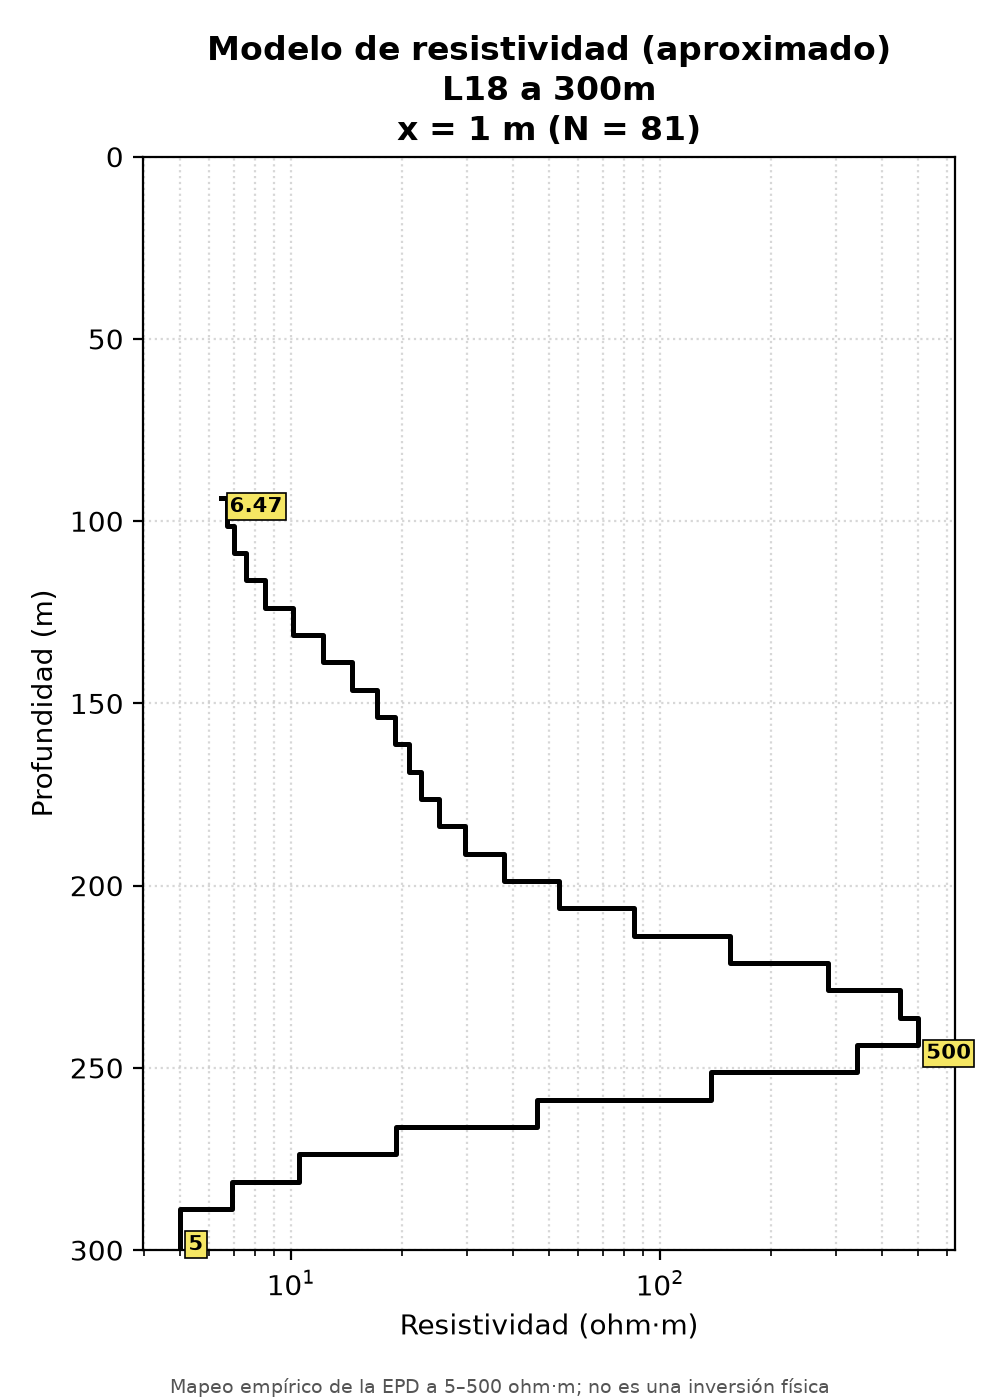
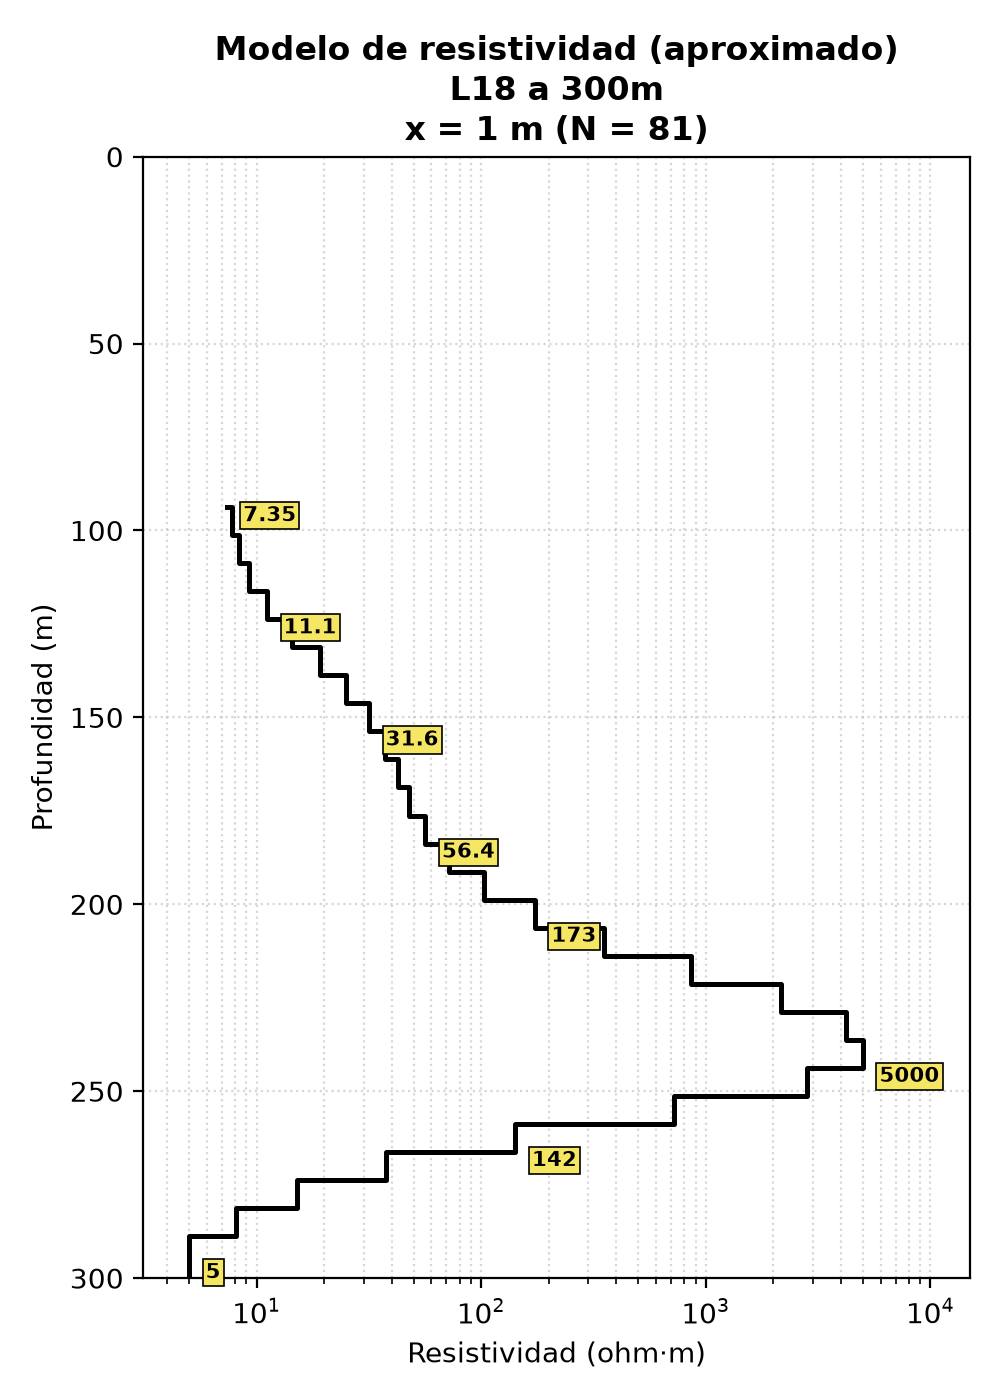
Magenta highlight boxes, resistivity labels along the curve, and boxes on the pseudo-section (Fig. 13)
Claude-Session: https://claude.ai/code/session_01Q2nGDhSbUmK7afAcFQ8b9A

diff --git a/tefsm_figuras.py b/tefsm_figuras.py
@@ -219,6 +219,40 @@ def figura_modulo(args):
 #   K_i = log10(dV_i / dV_min)        (ec. 13)
 #   h_s = c * 503 * sqrt(rho / f)     (ec. 12)
 # ----------------------------------------------------------------------------
+def recuadros_pseudo(args, ax):
+    """Recuadros fucsia sobre la pseudo-seccion (solo datos del equipo, profundidad lineal):
+      - trazo continuo grueso: tramos de menor resistividad de la estacion analizada (los mismos
+        recuadros del modelo de resistividad);
+      - trazo discontinuo: zonas de EPD baja respecto a la mediana lateral a cada profundidad."""
+    from scipy import ndimage
+    n, x, h, V = matriz_equipo(args)
+    paso = h[1] - h[0]
+    # zonas de EPD baja (anomalias laterales)
+    valido = V > args.umbral
+    with np.errstate(divide="ignore", invalid="ignore"):
+        L = np.where(valido, np.log10(np.where(valido, V, 1.0)), np.nan)
+    import warnings
+    with warnings.catch_warnings():
+        warnings.simplefilter("ignore", RuntimeWarning)
+        A = L - np.nanmedian(L, axis=1, keepdims=True)
+    lab, nl = ndimage.label(np.nan_to_num(A, nan=0.0) < -args.umbral_anomalia)
+    for k in range(1, nl + 1):
+        ii, jj = np.where(lab == k)
+        if len(ii) < args.min_celdas:
+            continue
+        x0, x1 = x[jj.min()] - args.dx / 2, x[jj.max()] + args.dx / 2
+        h0, h1 = max(h[ii.min()] - paso / 2, 0.0), h[ii.max()] + paso / 2
+        ax.add_patch(plt.Rectangle((x0, -h1), x1 - x0, h1 - h0, fill=False, ec=COLOR_RECUADRO, ls="--", lw=1.8, zorder=5))
+    # tramos de menor resistividad de la estacion
+    j = elegir_estacion(args, n, x, V)
+    hv, vv, m, _, _, _ = ajuste_estacion(args, V, h, j)
+    _, bordes, tramos = modelo_resistividad(args, h, hv, m)
+    for i0, i1 in tramos:
+        ax.add_patch(plt.Rectangle((x[j] - args.dx / 2, -bordes[i1 + 1]), args.dx, bordes[i1 + 1] - bordes[i0],
+                                   fill=False, ec=COLOR_RECUADRO, lw=3, zorder=6))
+    ax.axvline(x[j], color="k", lw=1, alpha=0.6, zorder=4)
+
+
 def figura_pseudo(args):
     cab = pd.read_csv(args.archivo, nrows=0, sep=None, engine="python") \
         if not args.archivo.lower().endswith((".xlsx", ".xls")) else pd.read_excel(args.archivo, nrows=0)
@@ -280,6 +314,8 @@ def figura_pseudo(args):
     ax.set_ylim(-hmax, 0)
     fig.colorbar(cf, ax=ax, orientation="horizontal", pad=0.04, shrink=0.8,
                  label=r"$\log_{10}(\Delta V/\Delta V_{min})$")
+    if "canal" in df.columns and args.escala_h == "lineal":
+        recuadros_pseudo(args, ax)
     ax.set_title(f"Pseudo-sección normalizada\n{etiqueta_csv(args.archivo)}", fontweight="bold", pad=42)
     guardar(fig, args)
 
@@ -426,28 +462,58 @@ def figura_horizontal(args):
 #   * Estacion por defecto: la de mayor anomalia de EPD BAJA respecto a la mediana lateral a cada
 #     profundidad (sin contar los bordes del perfil).
 # ----------------------------------------------------------------------------
-def figura_inversion(args):
+COLOR_RECUADRO = "#d81b9a"     # fucsia
+
+
+def elegir_estacion(args, n, x, V):
+    """Indice del punto a analizar: --x, --punto o, por defecto, el de mayor anomalia baja."""
+    if getattr(args, "x", None) is not None:
+        return int(np.argmin(np.abs(x - args.x)))
+    if getattr(args, "punto", None) is not None:
+        return int(np.argmin(np.abs(n - float(args.punto))))
+    return estacion_auto(V, args.umbral, args.umbral_anomalia)
+
+
+def ajuste_estacion(args, V, h, j):
+    """Lecturas validas de la estacion j y su ajuste regularizado (Tikhonov, 2a derivada)."""
     from scipy import ndimage
-
-    n, x, h, V = matriz_equipo(args)
-    valido = V > args.umbral
-    if args.x is not None:
-        j = int(np.argmin(np.abs(x - args.x)))
-    elif args.punto is not None:
-        j = int(np.argmin(np.abs(n - args.punto)))
-    else:
-        j = estacion_auto(V, args.umbral, args.umbral_anomalia)
-    xs = x[j]
-
-    obs = valido[:, j]
+    obs = V[:, j] > args.umbral
     hv, vv = h[obs], V[obs, j]
     if obs.sum() < 4:
-        sys.exit(f"La estacion N = {n[j]:g} tiene menos de 4 lecturas validas (> {args.umbral:g} mV)")
+        sys.exit(f"La estacion tiene menos de 4 lecturas validas (> {args.umbral:g} mV)")
     D = np.diff(np.eye(len(vv)), 2, axis=0)
     sc = vv.max()
-    m = np.linalg.solve(np.eye(len(vv)) + args.lam * D.T @ D, vv / sc) * sc    # ajuste regularizado
+    m = np.linalg.solve(np.eye(len(vv)) + args.lam * D.T @ D, vv / sc) * sc
     suav = ndimage.gaussian_filter1d(vv, args.factor_suavizado, mode="nearest")
     rms = float(np.sqrt(np.mean((m - vv) ** 2)))
+    return hv, vv, m, suav, rms, sc
+
+
+def modelo_resistividad(args, h, hv, m):
+    """Resistividad aproximada (mapeo log-lineal de la EPD ajustada a [rho_min, rho_max]), limites de
+    cada capa y tramos donde la resistividad BAJA respecto a la capa anterior (indices i0..i1)."""
+    from scipy.signal import find_peaks
+    t = np.clip((m - m.min()) / max(m.max() - m.min(), 1e-12), 0, 1)
+    rho = args.rho_min * (args.rho_max / args.rho_min) ** t
+    paso = h[1] - h[0]
+    bordes = np.concatenate([hv - paso / 2, [hv[-1] + paso / 2]])
+    lr = np.log10(rho)
+    mins, _ = find_peaks(-lr, prominence=args.prominencia)
+    maxs, _ = find_peaks(lr)
+    tramos = []
+    for k in mins:
+        previos = maxs[maxs < k]
+        i0 = int(previos[-1]) if len(previos) else max(0, k - 3)     # maximo local anterior
+        i1 = min(len(rho) - 1, k + 3)                                 # unos canales despues del minimo
+        tramos.append((i0, i1))
+    return rho, bordes, tramos
+
+
+def figura_inversion(args):
+    n, x, h, V = matriz_equipo(args)
+    j = elegir_estacion(args, n, x, V)
+    xs = x[j]
+    hv, vv, m, suav, rms, sc = ajuste_estacion(args, V, h, j)
 
     base = os.path.splitext(os.path.basename(args.archivo))[0]
     os.makedirs(args.salida, exist_ok=True)
@@ -469,26 +535,38 @@ def figura_inversion(args):
     terminar(fig, ruta, args, f"(estacion x = {xs:g} m, N = {n[j]:g})")
 
     # --- Modelo de resistividad (aproximado)
-    t = np.clip((m - m.min()) / max(m.max() - m.min(), 1e-12), 0, 1)
-    rho = args.rho_min * (args.rho_max / args.rho_min) ** t
-    paso = h[1] - h[0]
-    bordes = np.concatenate([hv - paso / 2, [hv[-1] + paso / 2]])
+    rho, bordes, tramos = modelo_resistividad(args, h, hv, m)
     fig, ax = plt.subplots(figsize=(5, 7))
     ax.step(np.concatenate([rho, rho[-1:]]), bordes, where="post", color="k", lw=1.8)
-    ext = [0] + [i for i in range(1, len(rho) - 1) if (rho[i] - rho[i - 1]) * (rho[i + 1] - rho[i]) < 0] + [len(rho) - 1]
-    for i in sorted(set(ext)):
-        ax.annotate(f"{rho[i]:.3g}", (rho[i], hv[i]), fontsize=7.5, fontweight="bold",
-                    bbox=dict(boxstyle="square,pad=0.15", fc="#f5e663", ec="k", lw=0.6),
-                    xytext=(3, 0), textcoords="offset points")
+    # Recuadros fucsia: tramos donde la resistividad BAJA respecto a la capa anterior
+    # (caida de al menos --prominencia en log10, p. ej. 0.06 = 15 %)
+    for i0, i1 in tramos:
+        r0, r1 = rho[i0:i1 + 1].min(), rho[i0:i1 + 1].max()
+        ax.add_patch(plt.Rectangle((r0 / 1.15, bordes[i0]), r1 * 1.15 - r0 / 1.15, bordes[i1 + 1] - bordes[i0],
+                                   fill=False, ec=COLOR_RECUADRO, lw=3, zorder=3))
+
+    # Etiquetas de resistividad repartidas por toda la curva: extremos del tramo, maximos y minimos
+    # locales y puntos a profundidades regulares; se descartan las que quedarian encimadas.
+    ext = [i for i in range(1, len(rho) - 1) if (rho[i] - rho[i - 1]) * (rho[i + 1] - rho[i]) < 0]
+    regulares = list(np.unique(np.round(np.linspace(0, len(rho) - 1, max(args.etiquetas, 2))).astype(int)))
+    prioridad = [0, len(rho) - 1] + ext + regulares
+    sep = args.prof / 22                                       # separacion vertical minima entre etiquetas
+    elegidas = []
+    for i in prioridad:
+        if all(abs(hv[i] - hv[q]) >= sep for q in elegidas) and len(elegidas) < max(args.etiquetas, 2) + len(ext) + 2:
+            elegidas.append(i)
+    for i in sorted(elegidas):
+        ax.annotate(f"{rho[i]:.0f}" if rho[i] >= 100 else f"{rho[i]:.3g}", (rho[i], hv[i]), fontsize=7.5,
+                    fontweight="bold", bbox=dict(boxstyle="square,pad=0.15", fc="#f5e663", ec="k", lw=0.6),
+                    xytext=(6, 0), textcoords="offset points", zorder=4)
     ax.set_xscale("log")
+    ax.set_xlim(args.rho_min / 1.6, args.rho_max * 3)           # espacio a la derecha para las etiquetas
     ax.set_ylim(args.prof, 0)
     ax.set_xlabel("Resistividad (ohm·m)")
     ax.set_ylabel("Profundidad (m)")
     ax.set_title(f"Modelo de resistividad (aproximado)\n{etiqueta_csv(args.archivo)}\nx = {xs:g} m (N = {n[j]:g})", fontweight="bold")
     ax.grid(ls=":", alpha=0.5, which="both")
-    fig.text(0.5, 0.005, f"Mapeo empírico de la EPD a {args.rho_min:g}–{args.rho_max:g} ohm·m; no es una inversión física",
-             ha="center", fontsize=7, color="#555")
-    fig.tight_layout(rect=(0, 0.02, 1, 1))
+    fig.tight_layout()
     ruta = os.path.join(args.salida, f"Modelo_Resistividad_{base}.png")
     terminar(fig, ruta, args)
 
@@ -551,6 +629,16 @@ def main():
     b.add_argument("--umbral", type=float, default=0.1,
                    help="descarta lecturas <= umbral (mV) como ruido/canal muerto (def. 0.1); "
                         "evita que dV_min sea ~0 en la ec. 13")
+    b.add_argument("--punto", type=float, default=None, help="N de la estacion marcada (def.: la de mayor anomalia baja)")
+    b.add_argument("--x", type=float, default=None, help="posicion x (m) de la estacion marcada")
+    b.add_argument("--umbral-anomalia", dest="umbral_anomalia", type=float, default=0.15,
+                   help="caida (log10) bajo la mediana lateral para marcar zonas de EPD baja (def. 0.15 = -30%%)")
+    b.add_argument("--min-celdas", dest="min_celdas", type=int, default=4, help="celdas minimas de un recuadro discontinuo (def. 4)")
+    b.add_argument("--lam", type=float, default=3.0, help="regularizacion del ajuste de la estacion (def. 3)")
+    b.add_argument("--factor-suavizado", dest="factor_suavizado", type=float, default=3.0, help=argparse.SUPPRESS)
+    b.add_argument("--rho-min", dest="rho_min", type=float, default=5.0, help="resistividad asignada a la EPD minima (ohm.m)")
+    b.add_argument("--rho-max", dest="rho_max", type=float, default=5000.0, help="resistividad asignada a la EPD maxima (ohm.m)")
+    b.add_argument("--prominencia", type=float, default=0.06, help="caida minima (log10) para marcar un tramo de menor resistividad")
     comun(b)
     b.set_defaults(fn=figura_pseudo)
 
@@ -588,8 +676,11 @@ def main():
     rs.add_argument("--x", type=float, default=None, help="posicion x (m) de la estacion (alternativa a --punto)")
     rs.add_argument("--lam", type=float, default=3.0, help="regularizacion del ajuste (def. 3)")
     rs.add_argument("--factor-suavizado", dest="factor_suavizado", type=float, default=3.0, help="sigma del suavizado (canales)")
-    rs.add_argument("--rho-min", dest="rho_min", type=float, default=5.0, help="resistividad asignada a la EPD minima (ohm.m)")
-    rs.add_argument("--rho-max", dest="rho_max", type=float, default=500.0, help="resistividad asignada a la EPD maxima (ohm.m)")
+    rs.add_argument("--etiquetas", type=int, default=8, help="numero de etiquetas de resistividad repartidas por la curva (def. 8)")
+    rs.add_argument("--prominencia", type=float, default=0.06,
+                    help="caida minima (log10) para marcar con un recuadro un tramo de menor resistividad (def. 0.06 = 15%%)")
+    rs.add_argument("--rho-min", dest="rho_min", type=float, default=5.0, help="resistividad asignada a la EPD minima (ohm.m; def. 5, arcillas lacustres)")
+    rs.add_argument("--rho-max", dest="rho_max", type=float, default=5000.0, help="resistividad asignada a la EPD maxima (ohm.m; def. 5000, rango de Guatemala)")
     rs.set_defaults(fn=figura_inversion)
 
     def completar(a):
@@ -613,16 +704,22 @@ def main():
         if a.mostrar:
             base += ["--mostrar"]
         for c in ("pseudo", "vertical", "horizontal", "inversion"):
-            extra = ["--punto", str(a.punto)] if (a.punto is not None and c in ("vertical", "inversion")) else []
-            if c != "pseudo":                # pseudo no usa la seleccion de estacion
-                extra += ["--umbral-anomalia", str(a.umbral_anomalia)]
+            extra = ["--punto", str(a.punto)] if (a.punto is not None and c in ("pseudo", "vertical", "inversion")) else []
+            extra += ["--umbral-anomalia", str(a.umbral_anomalia)]
+            if c in ("pseudo", "inversion"):
+                extra += ["--lam", str(a.lam), "--rho-min", str(a.rho_min), "--rho-max", str(a.rho_max),
+                          "--prominencia", str(a.prominencia)]
             sa = p.parse_args([c] + base + extra)
             completar(sa)
             sa.fn(sa)
 
     t = sub.add_parser("todas", help="todas las figuras de un archivo del equipo, en su carpeta (figuras/L89_150m)")
     comun_eq(t)
-    t.add_argument("--punto", type=float, default=None, help="N de la estacion para vertical e inversion (def.: la de mayor anomalia baja)")
+    t.add_argument("--punto", type=float, default=None, help="N de la estacion para pseudo, vertical e inversion (def.: la de mayor anomalia baja)")
+    t.add_argument("--lam", type=float, default=3.0, help="regularizacion del ajuste de la estacion (def. 3)")
+    t.add_argument("--rho-min", dest="rho_min", type=float, default=5.0, help="resistividad asignada a la EPD minima (ohm.m)")
+    t.add_argument("--rho-max", dest="rho_max", type=float, default=5000.0, help="resistividad asignada a la EPD maxima (ohm.m)")
+    t.add_argument("--prominencia", type=float, default=0.06, help="caida minima (log10) para marcar un tramo de menor resistividad")
     t.set_defaults(fn=figura_todas)
 
     args = p.parse_args()

diff --git a/README.md b/README.md
@@ -55,4 +55,24 @@ Opciones útiles (`-h` en cada comando muestra todas):
 
 Gomo y Ngobe indican que los valores del equipo no se pueden convertir en resistividad. Por eso `Modelo_Resistividad_*.png` es una **aproximación empírica y cualitativa**, no una inversión física:
 - *Calculado*: ajuste regularizado (Tikhonov, 2.ª derivada) de la EPD observada contra la profundidad (`--lam`); *Suavizado*: filtro gaussiano (`--factor-suavizado`). RMS = diferencia entre el ajuste y las lecturas.
-- *Resistividad*: mapeo log-lineal de la EPD ajustada al intervalo `--rho-min 5` … `--rho-max 500` Ω·m (más EPD, más resistividad). Calíbrelo con un sondeo o con resistividad eléctrica local.
+- *Etiquetas y recuadros*: el modelo muestra ~8 valores de resistividad repartidos por la curva (`--etiquetas N`: extremos, máximos y mínimos locales y profundidades regulares, sin encimarse). Un recuadro fucsia marca un tramo donde la resistividad baja respecto a la capa anterior, por lo menos 15 % (`--prominencia 0.06`, en log10); si la curva es monótona no aparece ninguno. En la pseudo-sección (`pseudo`) los recuadros fucsia son de dos tipos: trazo **continuo** grueso = los mismos tramos de menor resistividad de la estación analizada (la línea vertical negra); trazo **discontinuo** = zonas de EPD baja respecto a la mediana lateral a cada profundidad (`--umbral-anomalia`, `--min-celdas`). Solo se dibujan con datos del equipo y profundidad lineal.
+- *Resistividad*: mapeo log-lineal de la EPD ajustada al intervalo `--rho-min 5` … `--rho-max 5000` Ω·m (más EPD, más resistividad). Calíbrelo con un sondeo o con resistividad eléctrica local.
+
+### Valores de referencia en Guatemala (aportados por el equipo de campo)
+
+Resistividades aparentes típicas, útiles para elegir `--rho-min` y `--rho-max` (no están verificadas aquí contra sus fuentes):
+
+| Zona / material | Resistividad (Ω·m) |
+|---|---|
+| Pómez y cenizas secas (superficiales) | 500 – más de 2000 |
+| Flujos piroclásticos y toba, saturados o semisaturados | 60 – 250 |
+| Basaltos, andesitas y lavas masivas y secas | > 1000 |
+| Lavas fracturadas y saturadas (recarga hídrica) | 150 – 400 |
+| Rellenos aluviales y suelos areno-arcillosos | 30 – 150 |
+| Sedimentos lacustres y arcillas saturadas | 5 – 30 |
+| Calizas kársticas densas y secas | 800 – más de 5000 |
+| Calizas con cavernas colmatadas o acuífero kárstico | 80 – 200 |
+| Esquistos, gneises y serpentinitas sanos | > 800 |
+| Esquistos meteorizados (horizontes arcillosos) | 40 – 120 |
+
+Los valores por defecto (5 y 5000 Ω·m) cubren desde las arcillas lacustres hasta las calizas y rocas metamórficas sanas. Si en un sitio el rango esperado es más estrecho, ajústelos (por ejemplo `--rho-min 30 --rho-max 2500` en tierras altas volcánicas).
